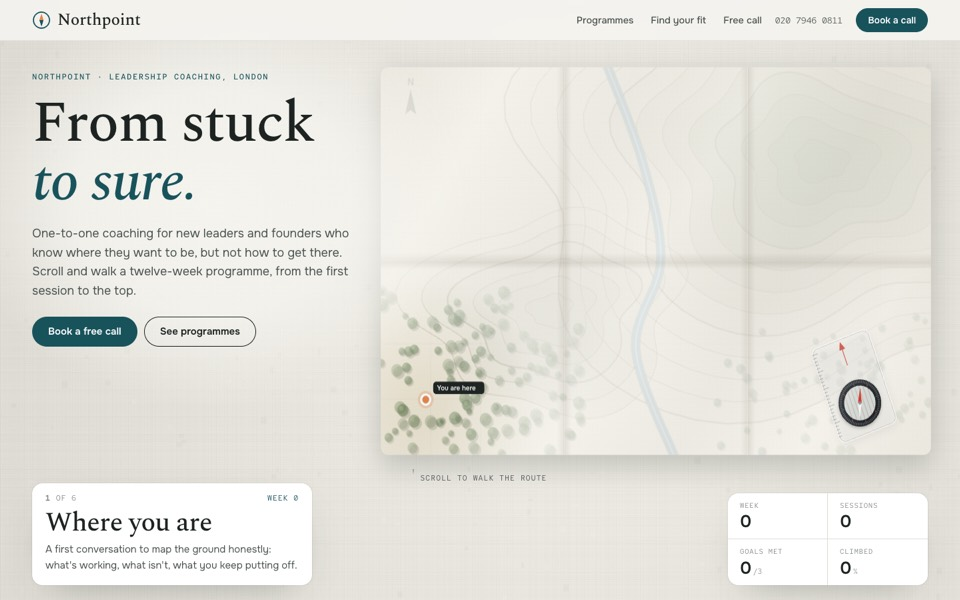
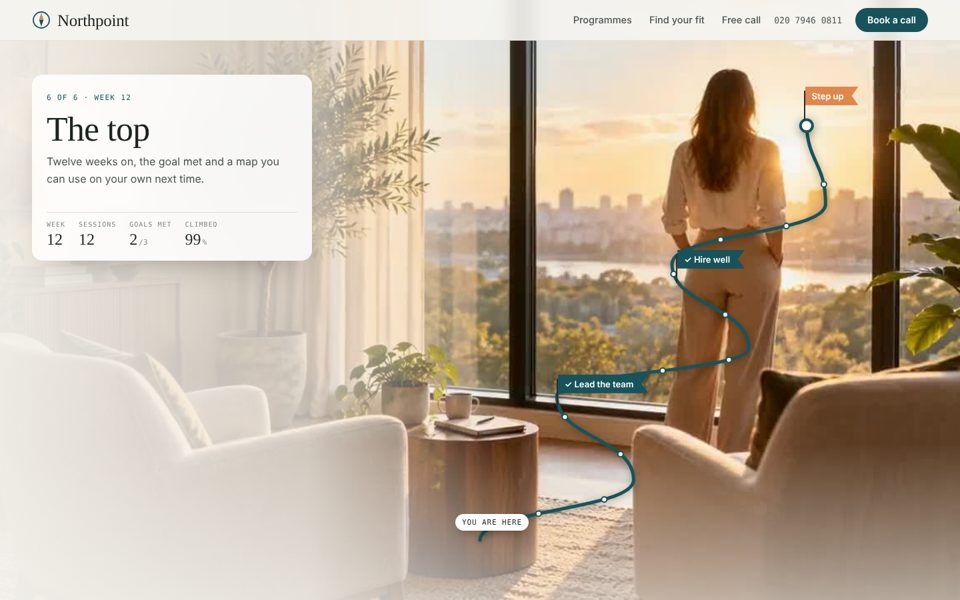
Compass redesigned v5: the real room with a trail drawn over it from where you are to the summit, goals flagged and the walker climbing session by session
Claude-Session: https://claude.ai/code/session_0133g3z4wqTvWj4LLKkZ92ba

diff --git a/design-packages/design/compass/template.html b/design-packages/design/compass/template.html
@@ -1,12 +1,13 @@
 <!doctype html><html><head><meta charset=utf8><meta name=viewport content="width=device-width,initial-scale=1,viewport-fit=cover"><style>:root{color-scheme:light;box-sizing:border-box;padding-top:env(safe-area-inset-top,0px);padding-bottom:env(safe-area-inset-bottom,0px)}html{scroll-padding-top:env(safe-area-inset-top,0px)}body{margin:0;padding:0;font:14px -apple-system,BlinkMacSystemFont,sans-serif;background:#fff;color:#000}img{max-width:100%}[hidden]:not([hidden=until-found i]){display:none!important}</style></head><body>
 <title>{{business.name}}</title>
+<meta name="description" content="{{hero.lede|attr}}">
 <link rel="preconnect" href="https://fonts.googleapis.com">
 <link rel="preconnect" href="https://fonts.gstatic.com" crossorigin>
 <link href="https://fonts.googleapis.com/css2?family=Spectral:ital,wght@0,500;1,500&family=Onest:wght@400;500;600;700&family=Red+Hat+Mono:wght@400;500&display=swap" rel="stylesheet">
 <style>
-/* Layout: a coach or consultant. One pinned map of the ground between where a client is and where they want to be,
-   walked as you scroll (where you stand, the summit you pick, the route, the sessions along it, the hard crossing, the
-   top); then what a client needs: the programmes, a few questions that point to the right one, and a free first call. */
+/* Layout: a coach or consultant. The real room plays as you scroll (the coach's own video or photos) with a route
+   drawn over it like a trail on a map: from where the client stands to the summit, the three goals flagged along the
+   way, the line inking itself in and a walker moving up it session by session; then what a client needs: the programmes, a few questions that point to the right one, and a free first call. */
 :root{
   color-scheme:light;
   --paper:#F5F4EF;
@@ -57,46 +58,64 @@ p{margin:0}
 @media (max-width:980px){.nav ul{display:none}.nav .call{margin-left:auto}}
 @media (max-width:560px){.nav .call{display:none}.nav .btn{margin-left:auto}.brand{font-size:23px}}
 
-/* hero: the map */
+/* hero: the real room, a trail drawn over it from where you are to the top */
 .hero{position:relative;height:560vh}
 .stage{position:sticky;top:0;height:100vh;height:100svh;overflow:hidden;background:var(--paper)}
-#map{position:absolute;inset:0;width:100%;height:100%;display:block}
-.hero-copy{position:absolute;left:var(--gut);top:calc(env(safe-area-inset-top,0px) + 108px);max-width:520px;z-index:3;display:grid;gap:18px;will-change:transform,opacity}
-.hero-copy::before{content:"";position:absolute;z-index:-1;inset:-110px -150px -90px calc(-1 * var(--gut) - 60px);background:radial-gradient(closest-side,rgba(245,244,239,.97),rgba(245,244,239,.82) 55%,rgba(245,244,239,0));pointer-events:none}
-.hero h1{font-size:clamp(3rem,min(6.4vw,9.6vh),6.4rem)}
+.stage .poster,#film{position:absolute;inset:0;width:100%;height:100%;display:block;z-index:0}
+.stage .poster{object-fit:cover}
+.veil{position:absolute;inset:0;z-index:1;pointer-events:none;background:linear-gradient(90deg,rgba(245,244,239,.94) 0%,rgba(245,244,239,.72) 32%,rgba(245,244,239,0) 54%),linear-gradient(0deg,rgba(245,244,239,.6),rgba(245,244,239,0) 26%)}
+.hero-copy{position:absolute;left:var(--gut);top:calc(env(safe-area-inset-top,0px) + 104px);max-width:540px;z-index:3;display:grid;gap:18px;will-change:transform,opacity}
+.hero h1{font-size:clamp(3rem,min(6vw,9.4vh),6rem)}
 .hero h1 em{display:block;color:var(--accent-text)}
-.lede{color:var(--ink-2);max-width:42ch;font-size:clamp(16px,1.3vw,18px)}
-.hero .acts{display:flex;gap:10px;flex-wrap:wrap;margin-top:6px}
-.card{position:absolute;z-index:4;left:var(--gut);bottom:calc(22px + env(safe-area-inset-bottom,0px));width:min(420px,calc(100% - 2*var(--gut)));padding:16px 20px 18px;background:var(--sheet);border-radius:16px;box-shadow:0 22px 56px -30px rgba(28,35,33,.4),0 0 0 1px rgba(28,35,33,.06)}
-.card .row{display:flex;justify-content:space-between;gap:10px;font:400 11.5px/1.2 var(--f-mono);letter-spacing:.08em;text-transform:uppercase;color:var(--muted)}
-.card .wk{color:var(--accent-text)}
-.card h3{font-size:clamp(30px,2.8vw,40px);margin-top:10px}
-.card p{color:var(--ink-2);font-size:15px;margin-top:6px;min-height:3.2em}
-.log{position:absolute;z-index:4;right:var(--gut);bottom:calc(22px + env(safe-area-inset-bottom,0px));display:grid;grid-template-columns:repeat(2,minmax(0,1fr));margin:0;min-width:300px;border-radius:16px;background:var(--sheet);box-shadow:0 22px 56px -30px rgba(28,35,33,.4),0 0 0 1px rgba(28,35,33,.06);overflow:hidden}
-.log div{padding:12px 18px;border-right:1px solid var(--line);border-bottom:1px solid var(--line);min-width:0}
-.log div:nth-child(2n){border-right:0}
-.log div:nth-child(n+3){border-bottom:0}
-.log dt{font:400 10.5px/1.2 var(--f-mono);letter-spacing:.08em;text-transform:uppercase;color:var(--muted)}
-.log dd{margin:6px 0 0;font:600 26px/1 var(--f-body);letter-spacing:-.02em;font-variant-numeric:tabular-nums;white-space:nowrap}
-.log dd small{font:400 11px var(--f-mono);color:var(--muted);margin-left:3px;letter-spacing:0}
-.hint{position:absolute;z-index:4;left:50%;bottom:calc(170px + env(safe-area-inset-bottom,0px));transform:translateX(-50%);font:400 11px var(--f-mono);letter-spacing:.12em;text-transform:uppercase;color:var(--ink-2);display:flex;align-items:center;gap:10px;pointer-events:none;white-space:nowrap}
-.hint i{display:block;width:1px;height:26px;background:linear-gradient(var(--ink-2),transparent);animation:cue 1.6s ease-in-out infinite}
+.lede{color:var(--ink-2);max-width:44ch;font-size:clamp(16px,1.3vw,18px)}
+.hero .acts{display:flex;gap:10px;flex-wrap:wrap;margin-top:4px}
+.split .w{display:inline-block;overflow:hidden;vertical-align:top;padding-bottom:.22em;margin-bottom:-.14em}
+.split .w{padding-right:.1em;margin-right:-.1em}
+.split .w>i{display:inline-block;font-style:inherit;animation:wrise .9s cubic-bezier(.16,1,.3,1) both}
+@keyframes wrise{from{transform:translateY(108%)}}
+.hint{position:absolute;z-index:4;left:var(--gut);bottom:calc(30px + env(safe-area-inset-bottom,0px));font:400 11px var(--f-mono);letter-spacing:.12em;text-transform:uppercase;color:var(--muted);display:flex;align-items:center;gap:10px;pointer-events:none}
+.hint i{display:block;width:1px;height:22px;background:linear-gradient(var(--muted),transparent);animation:cue 1.6s ease-in-out infinite}
 @keyframes cue{0%{transform:scaleY(.2);transform-origin:top}50%{transform:scaleY(1);transform-origin:top}100%{transform:scaleY(.2);transform-origin:bottom}}
-/* short laptop screens: a little less type so the copy clears the card */
-@media (min-width:821px) and (max-height:780px){.hero-copy{gap:14px}.hero h1{font-size:clamp(3rem,min(6.4vw,8.8vh),6.4rem)}.lede{font-size:15px}}
+/* the trail */
+.trail{position:absolute;inset:0;z-index:2;pointer-events:none;opacity:0;transition:opacity .5s}
+.trail.on{opacity:1}
+.trail svg{position:absolute;inset:0;width:100%;height:100%;overflow:visible}
+.trail .ghost{fill:none;stroke:rgba(255,255,255,.85);stroke-width:3;stroke-dasharray:2 10;stroke-linecap:round;filter:drop-shadow(0 1px 2px rgba(0,0,0,.35))}
+.trail .ink{fill:none;stroke:var(--accent);stroke-width:5;stroke-linecap:round;stroke-linejoin:round;filter:drop-shadow(0 2px 6px rgba(0,0,0,.35))}
+.trail .walker{fill:#fff;stroke:var(--accent);stroke-width:4;filter:drop-shadow(0 3px 8px rgba(0,0,0,.4))}
+.trail .ses{fill:#fff;stroke:var(--accent);stroke-width:2;opacity:0;transition:opacity .25s}
+.trail .ses.on{opacity:1}
+.wp{position:absolute;z-index:3;left:var(--x);top:var(--y);transform:translate(-4px,-100%);display:flex;align-items:flex-end;gap:0;pointer-events:none;opacity:0;transition:opacity .4s}
+.wp.on{opacity:1}
+.wp i{display:block;width:2px;height:44px;background:#2b2b2b;border-radius:1px}
+.wp span{margin:0 0 22px 0;padding:7px 12px 7px 10px;background:var(--flag);color:#fff;font:600 13px/1.1 var(--f-body);white-space:nowrap;clip-path:polygon(0 0,100% 0,calc(100% - 10px) 50%,100% 100%,0 100%);padding-right:22px;box-shadow:0 8px 16px -8px rgba(0,0,0,.5);transform-origin:0 50%;transform:scaleX(.3);transition:transform .5s cubic-bezier(.2,1.4,.4,1)}
+.wp.on span{transform:none}
+.wp.met span{background:var(--accent)}
+.wp.met span::before{content:"✓ "}
+.wp.start i{display:none}
+.wp.start span{margin:0;background:#fff;color:var(--ink);clip-path:none;padding:6px 10px;border-radius:99px;font:500 11px var(--f-mono);letter-spacing:.08em;text-transform:uppercase;transform:translate(-30%,-14px)}
+/* the step in hand, and the log */
+.now{position:absolute;z-index:3;left:var(--gut);top:calc(env(safe-area-inset-top,0px) + 112px);max-width:min(420px,36vw);padding:20px 22px;border-radius:16px;background:rgba(255,255,255,.86);backdrop-filter:blur(12px);-webkit-backdrop-filter:blur(12px);box-shadow:0 20px 50px -30px rgba(0,0,0,.45);opacity:0;transition:opacity .45s}
+.now.on{opacity:1}
+.now .k{font:500 11px/1.2 var(--f-mono);letter-spacing:.12em;text-transform:uppercase;color:var(--accent-text)}
+.now h3{font:400 clamp(34px,3.6vw,52px)/1.02 var(--f-display);margin-top:10px}
+.now p{color:var(--ink-2);margin-top:10px;font-size:16px;min-height:4.6em}
+.now dl{display:flex;gap:20px;margin:14px 0 0;padding-top:12px;border-top:1px solid var(--line)}
+.now dt{font:400 10px/1.2 var(--f-mono);letter-spacing:.1em;text-transform:uppercase;color:var(--muted)}
+.now dd{margin:4px 0 0;font:400 24px/1 var(--f-display);font-variant-numeric:tabular-nums;white-space:nowrap}
+.now dd small{font:400 11px var(--f-mono);color:var(--muted);margin-left:2px}
 @media (max-width:820px){
-  .hero-copy{top:calc(env(safe-area-inset-top,0px) + 86px);max-width:none;right:var(--gut);gap:14px}
+  .veil{background:linear-gradient(180deg,rgba(245,244,239,.94) 0%,rgba(245,244,239,.66) 34%,rgba(245,244,239,0) 50%)}
+  .hero-copy{top:calc(env(safe-area-inset-top,0px) + 84px);max-width:none;right:var(--gut);gap:14px}
   .hero .acts{display:none}
-  .log{left:var(--gut);right:var(--gut);min-width:0;grid-template-columns:repeat(4,minmax(0,1fr));bottom:calc(204px + env(safe-area-inset-bottom,0px))}
-  .log div{padding:9px 10px;border-bottom:0}
-  .log div:nth-child(2n){border-right:1px solid var(--line)}
-  .log div:last-child{border-right:0}
-  .log dt{font-size:8.5px;letter-spacing:.03em}
-  .log dd{font-size:clamp(16px,4.6vw,22px);white-space:normal;overflow-wrap:anywhere;line-height:1.05}
-  .log dd small{display:none}
-  .card{bottom:calc(14px + env(safe-area-inset-bottom,0px));padding:14px 18px}
-  .card p{font-size:14px;min-height:4.4em}
   .hint{display:none}
+  .now{top:calc(env(safe-area-inset-top,0px) + 70px);left:10px;right:10px;max-width:none;padding:14px 16px}
+  .now h3{font-size:28px}
+  .now p{font-size:14px;min-height:3em}
+  .now dl{gap:12px}
+  .now dd{font-size:19px}
+  .wp span{font-size:11.5px;padding:5px 18px 5px 8px;margin-bottom:16px}
+  .wp i{height:34px}
 }
 
 /* sections */
@@ -190,9 +209,12 @@ footer{background:var(--ink);color:var(--paper);padding:clamp(70px,9vw,120px) va
 </nav>
 
 <main>
-<section class="hero" id="top" aria-label="A coaching programme drawn as a route on a map, scroll to walk it">
+<section class="hero" id="top" aria-label="A coaching programme walked as a route; scroll to walk it">
   <div class="stage" id="stage">
-    <canvas id="map" aria-hidden="true"></canvas>
+{{#if $.film.poster}}    <img class="poster" src="{{$.film.poster|attr}}" alt="" aria-hidden="true">
+{{/if}}    <canvas id="film" role="img" aria-label="The room where {{brand.name|attr}} coaches, through a programme"></canvas>
+    <div class="veil" id="veil" aria-hidden="true"></div>
+    <div class="trail" id="trail" aria-hidden="true"><svg id="trailSvg"><path class="ghost" id="tGhost"/><path class="ink" id="tInk"/><g id="tSes"></g><circle class="walker" id="tWalk" r="9"/></svg></div>
     <div class="hero-copy" id="heroCopy">
       <p class="eyebrow">{{hero.eyebrow}}</p>
       <h1>{{hero.title}} <em>{{hero.titleEm}}</em></h1>
@@ -200,17 +222,13 @@ footer{background:var(--ink);color:var(--paper);padding:clamp(70px,9vw,120px) va
       <div class="acts"><a class="btn" href="#call">{{hero.cta}}</a><a class="btn ghost" href="#programmes">{{hero.cta2}}</a></div>
     </div>
     <div class="hint" id="hint"><i></i>{{hero.hint}}</div>
-    <dl class="log" id="log" aria-live="off">
-      <div><dt>{{log.labels.0}}</dt><dd id="kWeek">0</dd></div>
-      <div><dt>{{log.labels.1}}</dt><dd id="kSess">0</dd></div>
-      <div><dt>{{log.labels.2}}</dt><dd id="kGoals">0<small>/3</small></dd></div>
-      <div><dt>{{log.labels.3}}</dt><dd id="kClimb">0<small>%</small></dd></div>
-    </dl>
-    <div class="card" id="card" aria-live="polite">
-      <div class="row"><span><b id="gNum">1</b> of 6</span><span class="wk" id="gWeek">{{log.weekWord}} 0</span></div>
-      <h3 id="gTitle">{{stages.0.n}}</h3>
-      <p id="gText">{{stages.0.c}}</p>
-    </div>
+    <div class="now" id="now" aria-live="polite"><span class="k"><span id="gNum">1</span> of 6 · <span id="gWeek">{{log.weekWord}} 0</span></span><h3 id="gTitle">{{stages.0.n}}</h3><p id="gText">{{stages.0.c}}</p>
+      <dl id="log" aria-live="off">
+        <div><dt>{{log.labels.0}}</dt><dd id="kWeek">0</dd></div>
+        <div><dt>{{log.labels.1}}</dt><dd id="kSess">0</dd></div>
+        <div><dt>{{log.labels.2}}</dt><dd id="kGoals">0<small>/3</small></dd></div>
+        <div><dt>{{log.labels.3}}</dt><dd id="kClimb">0<small>%</small></dd></div>
+      </dl></div>
   </div>
 </section>
 
@@ -354,87 +372,58 @@ const ROUTEWORDS={{$.routeJs|raw}};
 const LAND={{$.landJs|raw}};
 const WEEKWORD={{log.weekWord|js}};
 
-/* ============ GEOMETRY ============ */
-const cv=$('#map'), ctx=cv.getContext('2d');
-let W=0,H=0,DPR=1,mobile=false,LA=null,LB=null;
-const layer=document.createElement('canvas');
-// the map is 2.2 wide and 1.4 tall; on a phone it stands on end, the summit at the top
-function fit(ax,ay,up){const w=ax[1]-ax[0], h=ay[1]-ay[0];const s=up?Math.min(w/1.4,h/2.2):Math.min(w/2.2,h/1.4);return{s,x:(ax[0]+ax[1])/2,y:(ay[0]+ay[1])/2};}
-function layout(){W=cv.clientWidth;H=cv.clientHeight;DPR=Math.min(devicePixelRatio||1,TOUCH?1.5:2);cv.width=Math.round(W*DPR);cv.height=Math.round(H*DPR);mobile=W<820;
-  const top=Math.max(70,H*.1), lg=$('#log').getBoundingClientRect(), cd=$('#card').getBoundingClientRect(), stg=$('#stage').getBoundingClientRect();
-  if(mobile){LA=LB=fit([W*.03,W*.97],[top,lg.top-stg.top-10],true);}
-  else{const cr=copy.offsetLeft+copy.offsetWidth, cb=copy.offsetTop+copy.offsetHeight, low=Math.min(lg.top,cd.top)-stg.top;
-    const side=fit([cr+20,W*.97],[H*.1,low-12]), under=fit([W*.05,W*.95],[cb+20,low-12]);
-    LA=side.s>=under.s*.8?side:under;LB=fit([W*.06,W*.94],[top,low-14]);}
-  // the terrain is drawn once at the biggest size it's shown at
-  const s=Math.max(LA.s,LB.s)*DPR;layer.width=Math.ceil(2.2*s);layer.height=Math.ceil(1.4*s);const l=layer.getContext('2d');l.setTransform(s,0,0,s,1.1*s,.7*s);terrain(l,LAND);}
+/* ============ THE FILM ============ */
+const hero=$('#top'), copy=$('#heroCopy'), hint=$('#hint'), now=$('#now'), trail=$('#trail');
+const STILL=/[?&]still\b/.test(location.search), FLAT=RM||STILL;
+if(FLAT)document.documentElement.classList.add('flat');
+{{$.film.runtime|raw}}
+const film=SRFilm($('#film'),{{$.film.json|raw}},{flat:FLAT,fx:.62,fy:.5});
+let inFrame=false;try{inFrame=window.self!==window.top}catch(e){inFrame=true}
+let AUTO=inFrame&&scrollY<1&&!FLAT;
+if(AUTO)addEventListener('scroll',()=>{if(AUTO&&scrollY>=1){AUTO=false;film.poke()}},{passive:true});
 
-/* ============ DRAWING ============ */
+/* ============ THE TRAIL ============ */
+// a winding line from where you stand (low) to the summit (high), across the right of the picture, laid out to the
+// screen; the goals sit a third, two thirds and all the way along it, a small mark for each session between
 const GOALAT=[.32,.68,1];
-function scene(c,f,time){c.drawImage(layer,-1.1,-.7,2.2,1.4);
-  // the walk: up to the river in the sessions, across it once the bridge is built, then on to the top
-  const reveal=sm(seg(f[1],0,.8)), plan=sm(f[2]), walk=(CROSS-.02)*sm(f[3])+.08*sm(seg(f[4],.55,1))+(1-CROSS-.06)*sm(f[5]);
-  const pos=at(walk);
-  // fog over everything you can't see yet
-  const fog=1-reveal;if(fog>0){c.save();const g=c.createRadialGradient(ROUTE[0][0],ROUTE[0][1],.08,ROUTE[0][0],ROUTE[0][1],.45+1.8*(1-fog));g.addColorStop(0,'rgba(245,244,239,0)');g.addColorStop(1,`rgba(245,244,239,${.7*fog+.06})`);c.fillStyle=g;c.fillRect(-1.2,-.8,2.4,1.6);c.restore();}
-  // the river shines at the hard part
-  const hard=sm(seg(f[4],0,.3))*(1-sm(seg(f[5],0,.4)));if(hard>0){c.save();c.globalAlpha*=hard;c.strokeStyle='rgba(60,120,170,.6)';c.lineWidth=.05;c.lineCap='round';c.beginPath();catmull(RIVER,10).forEach(([x,y],i)=>i?c.lineTo(x,y):c.moveTo(x,y));c.stroke();c.restore();}
-  const storm=sm(seg(f[4],0,.3))*(1-sm(seg(f[4],.75,1)));if(storm>0){c.save();c.fillStyle=`rgba(60,72,88,${.3*storm})`;c.fillRect(-1.2,-.8,2.4,1.6);c.strokeStyle=`rgba(220,230,240,${.5*storm})`;c.lineWidth=.003;for(let i=0;i<70;i++){const x=-1.1+((i*37)%100)/100*2.3, y=-.75+((i*61+Math.floor(time*30)*7)%100)/100*1.5;c.beginPath();c.moveTo(x,y);c.lineTo(x-.02,y+.06);c.stroke();}c.restore();}
-  // the route: planned as a dashed line, walked as a solid one
-  if(plan>0){const n=Math.max(2,Math.round(PATH.length*plan));c.save();c.globalAlpha*=.16;c.strokeStyle=LAND.route;c.lineWidth=.06;c.lineCap='round';c.lineJoin='round';c.beginPath();PATH.slice(0,n).forEach(([x,y],i)=>i?c.lineTo(x,y):c.moveTo(x,y));c.stroke();c.restore();
-    c.save();c.strokeStyle=LAND.route;c.lineWidth=.012;c.setLineDash([.024,.014]);c.lineCap='round';c.beginPath();PATH.slice(0,n).forEach(([x,y],i)=>i?c.lineTo(x,y):c.moveTo(x,y));c.stroke();c.restore();}
-  if(walk>0){c.save();c.globalAlpha*=.3;c.strokeStyle=LAND.route;c.lineWidth=.14;c.lineCap='round';c.lineJoin='round';c.beginPath();const d0=walk*TOT;PATH.forEach(([x,y],i)=>{if(LEN[i]<=d0)i?c.lineTo(x,y):c.moveTo(x,y);});c.lineTo(pos[0],pos[1]);c.stroke();c.restore();
-    c.save();c.strokeStyle=LAND.route;c.lineWidth=.024;c.lineCap='round';c.lineJoin='round';c.beginPath();const d=walk*TOT;PATH.forEach(([x,y],i)=>{if(LEN[i]<=d)i?c.lineTo(x,y):c.moveTo(x,y);});c.lineTo(pos[0],pos[1]);c.stroke();c.restore();}
-  // the sessions as stops along the route
-  // the sessions pop up along the route as they start, and fill in as you pass them
-  const S=ROUTEWORDS.sessions;for(let i=1;i<=S;i++){const pk=sm(seg(f[3],(i-1)/S*.4,(i-1)/S*.4+.15));if(pk<=0)continue;const k=i/(S+1), p=at(k);const done=walk>=k;c.fillStyle=done?LAND.route:'#FFFFFF';c.strokeStyle=LAND.route;c.lineWidth=.004;c.lineWidth=.006;c.beginPath();c.arc(p[0],p[1],.03*pk,0,7);c.fill();c.stroke();}
-  // the bridge over the crossing
-  const br=sm(seg(f[4],.2,.7));if(br>0){const p=at(CROSS), q=at(CROSS+.03), a=Math.atan2(q[1]-p[1],q[0]-p[0]);c.save();c.translate(p[0],p[1]);c.rotate(a);c.fillStyle='#8A6B4E';const n=Math.round(9*br);for(let i=0;i<n;i++)c.fillRect(-.06+i*.014,-.028,.01,.056);c.strokeStyle='#5B4636';c.lineWidth=.004;c.beginPath();c.moveTo(-.065,-.03);c.lineTo(-.065+.13*br,-.03);c.moveTo(-.065,.03);c.lineTo(-.065+.13*br,.03);c.stroke();c.restore();}
-  // goals as flags; the summit glows at the top
-  const top=sm(seg(f[5],.5,1));if(top>0){c.save();const g=c.createRadialGradient(SUMMIT[0],SUMMIT[1],0,SUMMIT[0],SUMMIT[1],.5);g.addColorStop(0,`rgba(255,214,150,${.55*top})`);g.addColorStop(1,'rgba(255,214,150,0)');c.fillStyle=g;c.fillRect(-1.2,-.8,2.4,1.6);c.restore();}
-  GOALAT.forEach((g,i)=>{const p=at(g), k=sm(seg(f[1],.35+i*.15,.6+i*.15));flag(c,p[0],p[1],k,LAND.flag,ROUTEWORDS.goals[i],walk>=g-.005);});
-  // you
-  const pulse=RM?0:(time*1.2)%1;c.save();c.fillStyle=`rgba(224,135,78,${.35*(1-pulse)})`;c.beginPath();c.arc(pos[0],pos[1],.02+.05*pulse,0,7);c.fill();c.fillStyle='#FFFFFF';c.beginPath();c.arc(pos[0],pos[1],.022,0,7);c.fill();c.fillStyle=LAND.flag;c.beginPath();c.arc(pos[0],pos[1],.014,0,7);c.fill();c.restore();
-  const sl=1-sm(seg(f[2],0,.4));if(sl>0){c.save();c.globalAlpha*=sl;c.translate(pos[0],pos[1]);if(mobile)c.rotate(Math.PI/2);const w=ROUTEWORDS.start.length*.0145+.03;c.fillStyle='#1C2321';c.beginPath();c.roundRect(.03,-.065,w,.045,.012);c.fill();text(c,ROUTEWORDS.start,.045,-.034,.026,'left','#FFFFFF',600);c.restore();}
-  return walk;}
-
-/* ============ HUD ============ */
+const esc=s=>String(s).replace(/[<>&"]/g,c=>({'<':'&lt;','>':'&gt;','&':'&amp;','"':'&quot;'}[c]));
+const stage=$('#stage'), svgEl=$('#trailSvg'), ghost=$('#tGhost'), ink=$('#tInk'), walker=$('#tWalk'), sesG=$('#tSes');
+const wps=[['start',ROUTEWORDS.start],...ROUTEWORDS.goals.map((g,i)=>['g'+i,g])].map(([k,label])=>{const el=document.createElement('div');el.className='wp'+(k==='start'?' start':'');el.style.setProperty('--flag',LAND.flag);el.innerHTML=`<i></i><span>${esc(label)}</span>`;stage.appendChild(el);return el;});
+let L=1, sess=[];
+function lay(){const w=stage.clientWidth,h=stage.clientHeight,m=w<820;svgEl.setAttribute('viewBox',`0 0 ${w} ${h}`);
+  const P=m?[[.14,.93],[.42,.86],[.26,.77],[.58,.69],[.4,.6],[.64,.52],[.56,.43]]:[[.5,.9],[.66,.8],[.58,.66],[.78,.58],[.7,.44],[.86,.34],[.84,.2]];
+  const pts=P.map(([x,y])=>[x*w,y*h]);let d=`M${pts[0][0]} ${pts[0][1]}`;for(let i=1;i<pts.length;i++){const [x0,y0]=pts[i-1],[x1,y1]=pts[i];d+=` C${x0} ${(y0+y1)/2} ${x1} ${(y0+y1)/2} ${x1} ${y1}`;}
+  ghost.setAttribute('d',d);ink.setAttribute('d',d);L=ink.getTotalLength();ink.style.strokeDasharray=L;
+  const S=ROUTEWORDS.sessions;sesG.innerHTML=Array.from({length:S},(_,i)=>{const q=ink.getPointAtLength(L*(i+1)/(S+1));return `<circle class="ses" cx="${q.x.toFixed(1)}" cy="${q.y.toFixed(1)}" r="4"/>`;}).join('');sess=[...sesG.children];
+  [0,...GOALAT].forEach((g,i)=>{const q=ink.getPointAtLength(L*g);wps[i].style.setProperty('--x',q.x+'px');wps[i].style.setProperty('--y',q.y+'px');});}
+lay();addEventListener('resize',lay);
 let shown=-1;
-function hud(p,f,walk){let idx=0;STAGES.forEach((s,i)=>{if(p>=s.w[0])idx=i;});
-  if(idx!==shown){shown=idx;$('#gNum').textContent=idx+1;$('#gTitle').textContent=STAGES[idx].n;$('#gText').textContent=STAGES[idx].c;}
-  const S=ROUTEWORDS.sessions, done=Math.min(S,Math.floor(walk*(S+1)+1e-6));const wk=p>=STAGES[5].w[0]+.12?ROUTEWORDS.weeks:Math.round(ROUTEWORDS.weeks*done/S);
-  $('#gWeek').textContent=`${WEEKWORD} ${wk}`;$('#kWeek').textContent=wk;$('#kSess').textContent=done;
-  $('#kGoals').innerHTML=`${GOALAT.filter(g=>walk>=g-.005).length}<small>/3</small>`;$('#kClimb').innerHTML=`${Math.round(100*walk)}<small>%</small>`;}
 
 /* ============ FRAME ============ */
-const hero=$('#top'), copy=$('#heroCopy'), hint=$('#hint');
 let cur=0;const t0=performance.now();
-let CLOTH=null;
-function buildCloth(){const d=document.createElement('canvas');d.width=cv.width;d.height=cv.height;const g=d.getContext('2d');g.setTransform(DPR,0,0,DPR,0,0);g.fillStyle='#EFEDE5';g.fillRect(0,0,W,H);let q=3;const r=()=>{q=(q*16807)%2147483647;return q/2147483647;};
-  for(let y=0;y<H;y+=2.4){g.fillStyle=`rgba(90,85,70,${.02+r()*.035})`;g.fillRect(0,y,W,1);}for(let x=0;x<W;x+=2.4){g.fillStyle=`rgba(90,85,70,${.015+r()*.03})`;g.fillRect(x,0,1,H);}for(let i=0;i<W*H/1100;i++){g.fillStyle=r()<.5?'rgba(255,255,255,.1)':'rgba(90,85,70,.035)';g.fillRect(r()*W,r()*H,r()<.5?3+r()*7:1,r()<.5?1:3+r()*7);}
-  const v=g.createRadialGradient(W*.6,H*.5,Math.min(W,H)*.3,W*.6,H*.5,Math.max(W,H)*.8);v.addColorStop(0,'rgba(0,0,0,0)');v.addColorStop(1,'rgba(60,55,40,.1)');g.fillStyle=v;g.fillRect(0,0,W,H);CLOTH=d;}
-function frame(p,time){ctx.setTransform(1,0,0,1,0,0);if(!CLOTH||CLOTH.width!==cv.width||CLOTH.height!==cv.height)buildCloth();ctx.drawImage(CLOTH,0,0);ctx.setTransform(DPR,0,0,DPR,0,0);
-  const k=mobile?seg(p,.01,.05):seg(p,.06,.12), m=sm(mobile?k:seg(p,.05,.14));
-  const S=lerp(LA.s,LB.s,m), X=lerp(LA.x,LB.x,m), Y=lerp(LA.y,LB.y,m);
-  const f=STAGES.map(s=>seg(p,s.w[0],s.w[1]));
-  ctx.globalAlpha=mobile?.25+.75*k:1;
-  ctx.save();ctx.translate(X,Y);if(mobile)ctx.rotate(-Math.PI/2);ctx.scale(S,S);
-  ctx.save();ctx.shadowColor='rgba(28,35,33,.22)';ctx.shadowBlur=40;ctx.shadowOffsetY=14;ctx.fillStyle='#EEEADD';ctx.beginPath();ctx.roundRect(-1.1,-.7,2.2,1.4,.03);ctx.fill();ctx.restore();
-  ctx.save();ctx.beginPath();ctx.roundRect(-1.1,-.7,2.2,1.4,.03);ctx.clip();const walk=scene(ctx,f,time);folds(ctx);ctx.restore();compass(ctx,time);
-  ctx.restore();ctx.globalAlpha=1;
-  copy.style.opacity=(1-k).toFixed(3);copy.style.transform=`translateY(${(-k*24).toFixed(1)}px)`;copy.style.visibility=k>=1?'hidden':'visible';
-  hint.style.opacity=(1-seg(p,0,.03)).toFixed(3);hud(p,f,walk);}
 function target(){const r=hero.getBoundingClientRect();return clamp(-r.top/(r.height-innerHeight));}
-// phones (Safari above all) give up on pages that redraw and re-make big canvases too often: draw only while the
-// hero is on screen, at a gentler rate while nothing is scrolling, and lay out again only when the canvas's size changes
+const mobile=()=>innerWidth<820;
+function frame(p,time){
+  const P=FLAT?1:p, f=STAGES.map(s=>FLAT?1:seg(p,s.w[0],s.w[1]));
+  film.draw(FLAT?1:AUTO?(time/Math.max(4,film.seconds()))%1:clamp(seg(P,.02,.94)),time);
+  const k=mobile()?seg(p,.01,.05):seg(p,.06,.12);copy.style.opacity=(1-k).toFixed(3);copy.style.transform=`translateY(${(-k*24).toFixed(1)}px)`;copy.style.visibility=k>=1?'hidden':'visible';
+  hint.style.opacity=(1-seg(p,0,.03)).toFixed(3);const on=FLAT||k>=1;now.classList.toggle('on',on);trail.classList.toggle('on',on);
+  let idx=0;STAGES.forEach((s,i)=>{if(P>=s.w[0])idx=i;});
+  if(idx!==shown){shown=idx;$('#gNum').textContent=idx+1;$('#gTitle').textContent=STAGES[idx].n;$('#gText').textContent=STAGES[idx].c;}
+  // the goals are flagged while you pick the summit; the line inks in through the sessions, slows at the hard part, reaches the top
+  const walk=FLAT?1:clamp(.55*sm(f[3])+.15*sm(f[4])+.3*sm(f[5]));
+  ink.style.strokeDashoffset=(L*(1-walk)).toFixed(1);const q=ink.getPointAtLength(L*walk);walker.setAttribute('cx',q.x.toFixed(1));walker.setAttribute('cy',q.y.toFixed(1));
+  wps[0].classList.toggle('on',on);GOALAT.forEach((g,i)=>{const w=wps[i+1];w.classList.toggle('on',on&&(FLAT||f[1]>.25+i*.2));w.classList.toggle('met',walk>=g-.005);});
+  const S=ROUTEWORDS.sessions, done=Math.min(S,Math.floor(walk*(S+1)+1e-6));sess.forEach((c,i)=>c.classList.toggle('on',i<done));
+  const wk=P>=STAGES[5].w[0]+.12?ROUTEWORDS.weeks:Math.round(ROUTEWORDS.weeks*done/S);
+  $('#gWeek').textContent=`${WEEKWORD} ${wk}`;$('#kWeek').textContent=wk;$('#kSess').textContent=done;
+  $('#kGoals').innerHTML=`${GOALAT.filter(g=>walk>=g-.005).length}<small>/3</small>`;$('#kClimb').innerHTML=`${Math.round(100*walk)}<small>%</small>`;
+}
 let gLast=-1e9,gForce=90;
-addEventListener('resize',()=>{gForce=30;});if(document.fonts&&document.fonts.ready)document.fonts.ready.then(()=>{gForce=30;});
-function gate(now){const r=cv.getBoundingClientRect();if(r.bottom<=0||r.top>=innerHeight)return true;if(gForce>0){gForce--;gLast=now;return false;}
+addEventListener('resize',()=>{gForce=30;film.size();});if(document.fonts&&document.fonts.ready)document.fonts.ready.then(()=>{gForce=30;});
+function gate(now){if(AUTO)return false;const r=$('#stage').getBoundingClientRect();if(r.bottom<=0||r.top>=innerHeight)return true;if(gForce>0){gForce--;gLast=now;return false;}
   if(Math.abs(target()-cur)>.0004){gLast=now;return false;}if(RM||now-gLast<(TOUCH?50:33))return true;gLast=now;return false;}
 function loop(now){if(gate(now)){requestAnimationFrame(loop);return;}const time=(now-t0)/1000, t=target();cur=RM?t:cur+(t-cur)*.14;if(Math.abs(t-cur)<.0004)cur=t;frame(cur,RM?0:time);requestAnimationFrame(loop);}
-layout();
-let rz;addEventListener('resize',()=>{clearTimeout(rz);rz=setTimeout(()=>{const w=cv.clientWidth,h=cv.clientHeight;if(w===gW&&h===gH)return;gW=w;gH=h;layout();},120);});
-if(document.fonts&&document.fonts.ready)document.fonts.ready.then(layout);
 requestAnimationFrame(loop);
 })();
 </script>
@@ -509,4 +498,14 @@ let rz;addEventListener('resize',()=>{clearTimeout(rz);rz=setTimeout(portrait,12
 })();
 </script>
 
+<script>
+/* the title arrives word by word */
+(function(){if(matchMedia('(prefers-reduced-motion: reduce)').matches||/[?&]still\b/.test(location.search))return;const h=document.querySelector('[data-split]')||document.querySelector('main h1:not(.sr)');if(!h)return;let k=0;
+ // each word in its own clipped box; a block inside the title (a second line) keeps its place and has its words split too
+ const unit=(box,el)=>{const w=document.createElement('span');w.className='w';el.style.animationDelay=(150+k++*80)+'ms';w.appendChild(el);box.appendChild(w)};
+ const split=box=>{const parts=[...box.childNodes],blk=parts.map(n=>n.nodeType===1&&getComputedStyle(n).display==='block');box.textContent='';
+  parts.forEach((n,j)=>{if(n.nodeType===3)n.textContent.split(/(\s+)/).forEach(x=>{if(!x)return;if(/^\s+$/.test(x)){box.appendChild(document.createTextNode(' '));return}const i=document.createElement('i');i.textContent=x;unit(box,i)});
+   else if(n.nodeType===1){if(blk[j]){box.appendChild(n);if(n.children.length===0)split(n);return}const i=document.createElement('i');i.appendChild(n);unit(box,i)}});};
+ split(h);h.classList.add('split')})();
+</script>
 </body></html>

diff --git a/design-packages/design/compass/hooks.js b/design-packages/design/compass/hooks.js
@@ -5,6 +5,7 @@
 'use strict';
 const { FILTERS } = require('../../engine/template');
 const js = FILTERS.js;
+const film = require('../../engine/film');
 
 const WINDOWS = ['[0,.14]', '[.14,.3]', '[.3,.46]', '[.46,.66]', '[.66,.84]', '[.84,1]'];
 const num = (n) => String(+(+n).toFixed(3)).replace(/^(-?)0\./, '$1.');
@@ -16,6 +17,7 @@ function derive(c) {
     tel: c.contact.phone.replace(/[^\d+]/g, ''),
     businessSaid: c.business.name.replace(/\s*&\s*/g, ' and '),
     brandSaid: c.brand.name.replace(/\s*&\s*/g, ' and '),
+    film: film.derive(c, null, [24, 83, 92]),
     stagesJs: c.stages.map((s, i) => ` {n:${js(s.n)},c:${js(s.c)},w:${WINDOWS[i]}}`).join(',\n'),
     routeJs: `{start:${js(R.start)},goals:[${list(R.goals)}],sessions:${R.sessions},weeks:${R.weeks}}`,
     landJs: `{land:'#EEEADD',route:${js(c.theme.accent)},flag:${js(R.flag)}}`,
